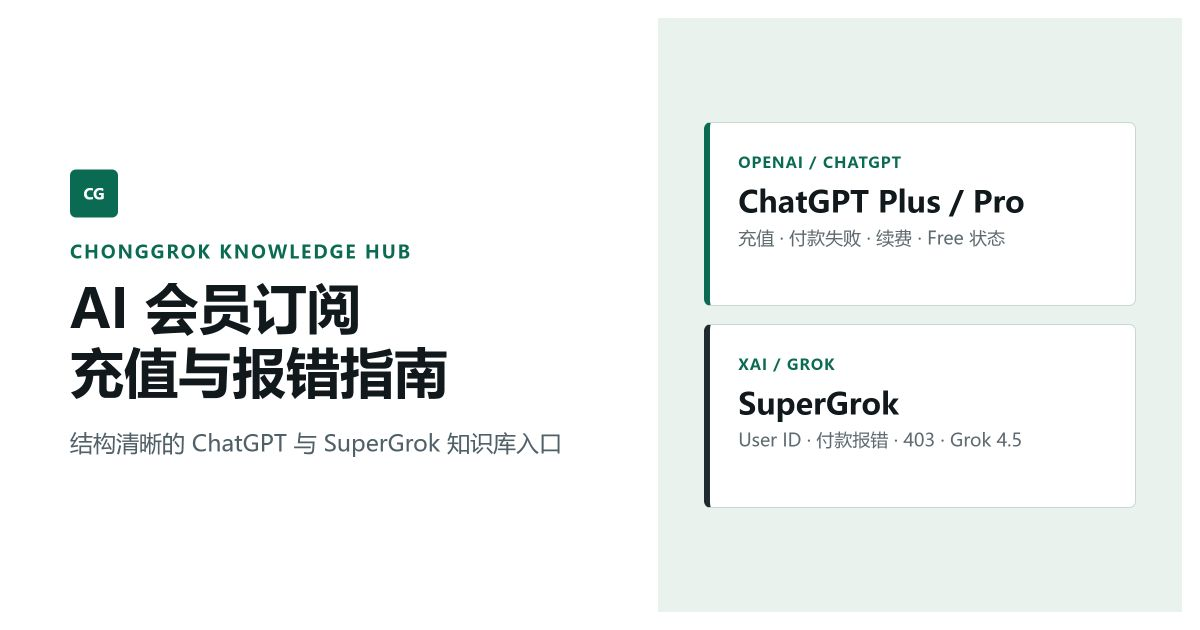
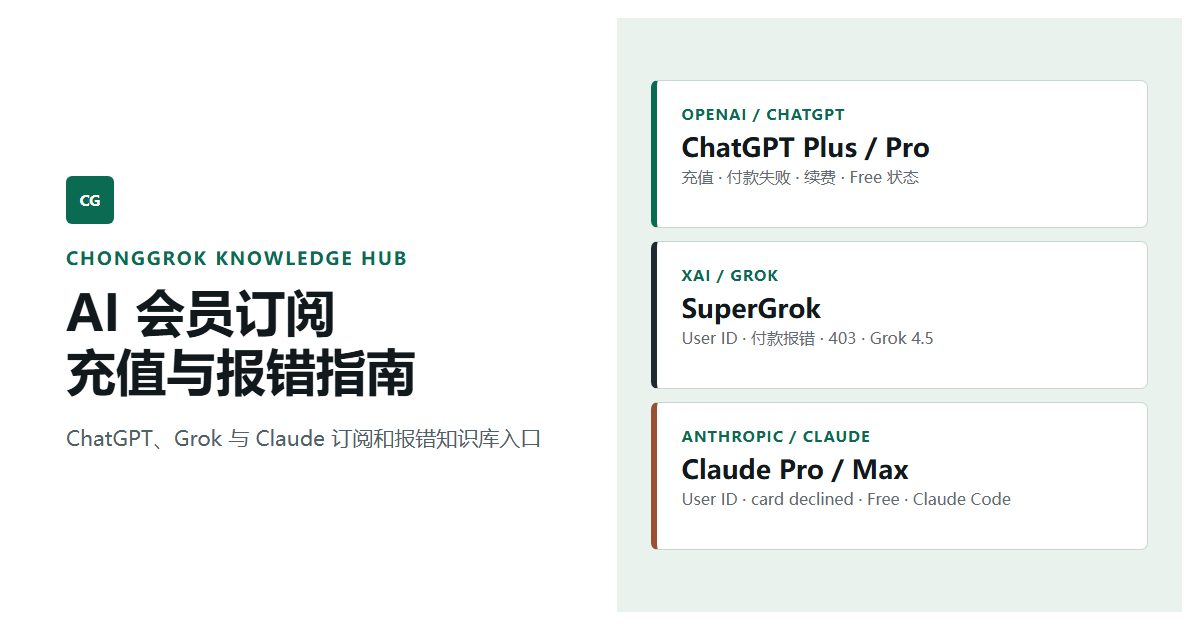
Add Claude knowledge base to portal

diff --git a/social-preview-source.html b/social-preview-source.html
@@ -7,19 +7,20 @@
   <style>
     * { box-sizing: border-box; }
     body { margin: 0; width: 1200px; height: 630px; overflow: hidden; color: #11191d; background: #f4f7f5; font-family: "Microsoft YaHei", "Segoe UI", Arial, sans-serif; }
-    .canvas { width: 1200px; height: 630px; display: grid; grid-template-columns: 1.1fr .9fr; border: 18px solid #fff; }
-    .copy { padding: 62px 52px; display: flex; flex-direction: column; justify-content: center; background: #fff; }
+    .canvas { width: 1200px; height: 630px; display: grid; grid-template-columns: 1.03fr .97fr; border: 18px solid #fff; }
+    .copy { padding: 56px 48px; display: flex; flex-direction: column; justify-content: center; background: #fff; }
     .mark { display: inline-grid; width: 48px; height: 48px; place-items: center; border-radius: 6px; color: #fff; background: #0b6b52; font-size: 15px; font-weight: 800; }
     .eyebrow { margin: 22px 0 12px; color: #0b6b52; font-size: 18px; font-weight: 800; letter-spacing: 2px; }
-    h1 { margin: 0; max-width: 610px; font-size: 54px; line-height: 1.18; letter-spacing: 0; }
-    p { margin: 22px 0 0; max-width: 600px; color: #506067; font-size: 23px; line-height: 1.55; }
-    .products { padding: 46px; display: grid; align-content: center; gap: 18px; background: #eaf2ee; }
-    .product { min-height: 184px; padding: 28px; border: 1px solid #c8d8d1; border-radius: 7px; background: #fff; }
+    h1 { margin: 0; max-width: 610px; font-size: 50px; line-height: 1.18; letter-spacing: 0; }
+    p { margin: 22px 0 0; max-width: 600px; color: #506067; font-size: 21px; line-height: 1.55; }
+    .products { padding: 34px; display: grid; align-content: center; gap: 13px; background: #eaf2ee; }
+    .product { min-height: 148px; padding: 22px 24px; border: 1px solid #c8d8d1; border-radius: 7px; background: #fff; }
     .product small { color: #0b6b52; font-size: 15px; font-weight: 800; letter-spacing: 1px; }
-    .product h2 { margin: 10px 0 6px; font-size: 30px; line-height: 1.25; }
-    .product span { color: #5f6b70; font-size: 18px; }
+    .product h2 { margin: 7px 0 4px; font-size: 26px; line-height: 1.2; }
+    .product span { color: #5f6b70; font-size: 16px; }
     .product.grok { border-left: 6px solid #202a31; }
     .product.chatgpt { border-left: 6px solid #0b6b52; }
+    .product.claude { border-left: 6px solid #9a4f32; }
   </style>
 </head>
 <body>
@@ -28,7 +29,7 @@
       <div class="mark">CG</div>
       <div class="eyebrow">CHONGGROK KNOWLEDGE HUB</div>
       <h1>AI 会员订阅<br>充值与报错指南</h1>
-      <p>结构清晰的 ChatGPT 与 SuperGrok 知识库入口</p>
+      <p>ChatGPT、Grok 与 Claude 订阅和报错知识库入口</p>
     </section>
     <section class="products">
       <div class="product chatgpt">
@@ -40,6 +41,11 @@
         <small>XAI / GROK</small>
         <h2>SuperGrok</h2>
         <span>User ID · 付款报错 · 403 · Grok 4.5</span>
+      </div>
+      <div class="product claude">
+        <small>ANTHROPIC / CLAUDE</small>
+        <h2>Claude Pro / Max</h2>
+        <span>User ID · card declined · Free · Claude Code</span>
       </div>
     </section>
   </main>

diff --git a/assets/css/style.css b/assets/css/style.css
@@ -7,6 +7,7 @@
   --brand: #0b6b52;
   --brand-dark: #084e3d;
   --grok: #1f2933;
+  --claude: #9a4f32;
   --accent: #a45b10;
   --danger: #a83328;
   --max-width: 1120px;
@@ -111,7 +112,7 @@ li + li { margin-top: 7px; }
 .button-link.primary { color: #fff; border-color: var(--brand); background: var(--brand); }
 .button-link.primary:hover { color: #fff; background: var(--brand-dark); }
 
-.product-grid { display: grid; grid-template-columns: repeat(2, minmax(0, 1fr)); gap: 20px; margin: 26px 0; }
+.product-grid { display: grid; grid-template-columns: repeat(3, minmax(0, 1fr)); gap: 20px; margin: 26px 0; }
 .product-card { overflow: hidden; border: 1px solid var(--line); border-radius: 7px; background: #fff; }
 .product-media { aspect-ratio: 16 / 8.5; overflow: hidden; border-bottom: 1px solid var(--line); background: var(--soft); }
 .product-media img { width: 100%; height: 100%; object-fit: cover; }
@@ -122,9 +123,10 @@ li + li { margin-top: 7px; }
 .tag-list span { padding: 4px 8px; border: 1px solid var(--line); border-radius: 4px; color: #405047; background: var(--soft); font-size: .82rem; }
 .card-actions { display: flex; flex-wrap: wrap; gap: 10px; }
 
-.intent-grid { display: grid; grid-template-columns: repeat(2, minmax(0, 1fr)); gap: 14px; margin: 22px 0; }
+.intent-grid { display: grid; grid-template-columns: repeat(3, minmax(0, 1fr)); gap: 14px; margin: 22px 0; }
 .intent-group { padding: 18px; border-left: 4px solid var(--brand); background: var(--soft); }
 .intent-group.grok { border-left-color: var(--grok); }
+.intent-group.claude { border-left-color: var(--claude); }
 .intent-group h3 { margin-top: 0; }
 .intent-group ul { margin-bottom: 0; padding-left: 21px; }
 
@@ -170,6 +172,7 @@ code { padding: 2px 5px; border-radius: 4px; background: #eef2f1; font-size: .92
   .nav-shell { align-items: flex-start; flex-direction: column; padding: 12px 0; gap: 10px; }
   .site-header { position: static; }
   .site-nav { width: 100%; flex-wrap: wrap; gap: 8px 14px; padding-bottom: 2px; }
+  .product-grid, .intent-grid { grid-template-columns: repeat(2, minmax(0, 1fr)); }
 }
 @media (max-width: 720px) {
   body { font-size: 16px; }

diff --git a/_includes/footer.html b/_includes/footer.html
@@ -2,14 +2,15 @@
   <div class="footer-shell">
     <div>
       <p class="footer-title">ChongGrok AI 会员指南</p>
-      <p>ChatGPT 与 SuperGrok 会员订阅、付款报错和账号状态知识库。</p>
+      <p>ChatGPT、Grok 与 Claude 会员订阅、付款报错和账号状态知识库。</p>
     </div>
     <div class="footer-links">
       <a href="{{ site.chatgpt_guide_url }}">ChatGPT 指南</a>
       <a href="{{ site.grok_guide_url }}">Grok 指南</a>
+      <a href="{{ site.claude_guide_url }}">Claude 指南</a>
       <a href="{{ '/llms.txt' | relative_url }}">llms.txt</a>
       <a href="https://chonggrok.com/blog">主站博客</a>
     </div>
-    <p class="footer-note">ChongGrok 与 OpenAI、xAI、X 不存在隶属、授权或官方合作关系。套餐、权益、价格与模型可用性以对应产品官方页面实时展示为准。</p>
+    <p class="footer-note">ChongGrok 与 OpenAI、xAI、X、Anthropic 不存在隶属、授权或官方合作关系。套餐、权益、价格与模型可用性以对应产品官方页面实时展示为准。</p>
   </div>
 </footer>

diff --git a/_includes/header.html b/_includes/header.html
@@ -8,6 +8,7 @@
       <a href="{{ '/' | relative_url }}">首页</a>
       <a href="{{ site.chatgpt_guide_url }}">ChatGPT</a>
       <a href="{{ site.grok_guide_url }}">Grok</a>
+      <a href="{{ site.claude_guide_url }}">Claude</a>
       <a href="{{ '/search/' | relative_url }}">搜索</a>
       <a href="{{ '/about/' | relative_url }}">关于</a>
       <a href="{{ '/en/' | relative_url }}" lang="en">English</a>

diff --git a/index.md b/index.md
@@ -1,14 +1,14 @@
 ---
-title: "ChongGrok AI 会员指南：ChatGPT 与 SuperGrok 充值及报错知识库"
-description: "ChongGrok AI 会员指南统一入口，覆盖 ChatGPT Plus / Pro 和 SuperGrok 充值、付款失败、续费、账号状态、User ID 与 session 风险说明。"
+title: "ChongGrok AI 会员指南：ChatGPT、Grok 与 Claude 订阅及报错知识库"
+description: "ChongGrok AI 会员指南统一入口，覆盖 ChatGPT Plus / Pro、SuperGrok 与 Claude Pro / Max 的订阅、付款失败、续费、账号状态和凭证安全说明。"
 permalink: /
 schema_type: CollectionPage
-last_modified_at: 2026-07-13
+last_modified_at: 2026-07-14
 faq:
   - question: "这个网站提供哪些会员订阅指南？"
-    answer: "首版收录 ChatGPT Plus / Pro 与 Grok / SuperGrok 两套独立知识库，覆盖充值流程、付款报错、订阅状态和账号凭证说明。"
+    answer: "当前收录 ChatGPT Plus / Pro、Grok / SuperGrok 与 Claude Pro / Max 三套独立知识库，覆盖订阅流程、付款报错、账号状态和凭证安全说明。"
   - question: "ChongGrok 充值需要账号密码吗？"
-    answer: "不需要账号密码。不同产品需要的账号标识不同：ChatGPT Plus 自动流程使用本次升级所需 session，SuperGrok 使用 Grok User ID；这些信息仍应谨慎保管并仅在确认的核销流程中提交。"
+    answer: "不需要账号密码。不同产品需要的账号标识不同：ChatGPT Plus 自动流程使用本次升级所需 session，SuperGrok 使用 Grok User ID，Claude 客服协助流程使用 Claude User ID；这些信息仍应谨慎保管并仅在确认的流程中提交。"
   - question: "这个网站提供 API 额度或成品账号吗？"
     answer: "不提供。ChongGrok 这里只处理 ChatGPT、Grok、Claude、Gemini 的会员订阅，不提供 API 额度、成品号、接码或批量注册服务。"
 ---
@@ -16,7 +16,7 @@ faq:
 <section class="intro-band">
   <p class="eyebrow">ChongGrok Knowledge Hub</p>
   <h1>ChongGrok AI 会员指南</h1>
-  <p class="lead">面向国内用户的 ChatGPT 与 SuperGrok 会员订阅知识库。先判断套餐和购买入口，再处理付款被拒、续费失败、权益未同步和账号凭证问题。</p>
+  <p class="lead">面向国内用户的 ChatGPT、Grok 与 Claude 会员订阅知识库。先判断套餐和购买入口，再处理付款被拒、续费失败、权益未同步和账号凭证问题。</p>
   <div class="intro-actions">
     <a class="button-link primary" href="{{ '/search/' | relative_url }}">搜索问题</a>
     <a class="button-link" href="https://chonggrok.com/blog">查看主站博客</a>
@@ -67,29 +67,38 @@ faq:
       <li><a href="https://he20000405-pixel.github.io/supergrok-china-guide/guides/grok-build-login-403/">Grok Build 登录与 403</a></li>
     </ul>
   </section>
+  <section class="intent-group claude">
+    <h3>Claude 常见问题</h3>
+    <ul>
+      <li><a href="https://he20000405-pixel.github.io/claude-pro-max-china-guide/guides/claude-pro-vs-max/">Pro、Max 5x 与 Max 20x 怎么选</a></li>
+      <li><a href="https://he20000405-pixel.github.io/claude-pro-max-china-guide/guides/claude-payment-errors/">银行卡被拒、账单地址与 3DS</a></li>
+      <li><a href="https://he20000405-pixel.github.io/claude-pro-max-china-guide/guides/claude-paid-but-still-free/">已付款但仍显示 Free</a></li>
+      <li><a href="https://he20000405-pixel.github.io/claude-pro-max-china-guide/guides/claude-code-pro-max/">Claude Code 登录与额度边界</a></li>
+    </ul>
+  </section>
 </div>
 
 ## 使用边界
 
 <div class="notice warning">
-  <strong>不要密码不等于零风险。</strong>ChatGPT session 和 Grok User ID 的敏感程度不同，但都只应在确认的充值流程中提交。任何线上订阅服务都无法诚实承诺绝对安全、固定到账或账号结果。
+  <strong>不要密码不等于零风险。</strong>ChatGPT session、Grok User ID 与 Claude User ID 的敏感程度不同，但都只应在确认的订阅协助流程中提交。任何线上订阅服务都无法诚实承诺绝对安全、固定到账或账号结果。
 </div>
 
 - 账号始终归用户自己，完成后由用户登录官方页面验收。
 - 只提供 ChatGPT、Grok、Claude、Gemini 的会员订阅服务。
 - 不提供 API 额度、成品账号、接码或批量注册。
-- ChongGrok 与 OpenAI、xAI、X 不存在隶属、授权或官方合作关系。
+- ChongGrok 与 OpenAI、xAI、X、Anthropic 不存在隶属、授权或官方合作关系。
 
 ## 常见问题
 
 <div class="faq-list">
   <details>
     <summary>这个网站提供哪些会员订阅指南？</summary>
-    <p>首版收录 ChatGPT Plus / Pro 与 Grok / SuperGrok 两套独立知识库，覆盖充值流程、付款报错、订阅状态和账号凭证说明。</p>
+    <p>当前收录 ChatGPT Plus / Pro、Grok / SuperGrok 与 Claude Pro / Max 三套独立知识库，覆盖订阅流程、付款报错、账号状态和凭证安全说明。</p>
   </details>
   <details>
     <summary>ChongGrok 充值需要账号密码吗？</summary>
-    <p>不需要账号密码。ChatGPT Plus 自动流程使用本次升级所需 session，SuperGrok 使用 Grok User ID；两者都应谨慎保管并仅在确认的核销流程中提交。</p>
+    <p>不需要账号密码。ChatGPT Plus 自动流程使用本次升级所需 session，SuperGrok 使用 Grok User ID，Claude 客服协助流程使用 Claude User ID；这些信息都应谨慎保管并仅在确认的流程中提交。</p>
   </details>
   <details>
     <summary>这个网站提供 API 额度或成品账号吗？</summary>
@@ -97,4 +106,4 @@ faq:
   </details>
 </div>
 
-<p class="meta">最后更新：2026-07-13</p>
+<p class="meta">最后更新：2026-07-14</p>

diff --git a/search.md b/search.md
@@ -1,19 +1,19 @@
 ---
-title: "搜索 ChatGPT 与 Grok 充值及报错指南"
-description: "搜索 ChongGrok ChatGPT 与 Grok 知识库中的充值流程、付款失败、Free 状态、续费、User ID、session 和 Grok Build 403 专题。"
+title: "搜索 ChatGPT、Grok 与 Claude 订阅及报错指南"
+description: "搜索 ChongGrok ChatGPT、Grok 与 Claude 知识库中的订阅流程、付款失败、Free 状态、续费、User ID、session、Grok Build 403 和 Claude Code 专题。"
 permalink: /search/
-last_modified_at: 2026-07-13
+last_modified_at: 2026-07-14
 ---
 
 <p class="eyebrow">Search</p>
 # 搜索知识库
 
-<p class="lead">输入产品、报错提示或订阅状态关键词，结果会直接打开对应的 ChatGPT 或 Grok 专题。</p>
+<p class="lead">输入产品、报错提示或订阅状态关键词，结果会直接打开对应的 ChatGPT、Grok 或 Claude 专题。</p>
 
 <section class="search-panel" aria-label="知识库搜索">
   <form class="search-form" action="{{ '/search/' | relative_url }}" method="get" data-search-form>
     <label class="sr-only" for="guide-search">搜索关键词</label>
-    <input id="guide-search" name="q" type="search" autocomplete="off" placeholder="例如：付款失败、Free、续费、User ID、session" data-search-input>
+    <input id="guide-search" name="q" type="search" autocomplete="off" placeholder="例如：付款失败、Free、续费、User ID、session、Claude Code" data-search-input>
     <button type="submit">搜索</button>
   </form>
   <p class="search-status" aria-live="polite" data-search-status>正在载入搜索索引。</p>
@@ -22,7 +22,7 @@ last_modified_at: 2026-07-13
 <div class="search-results" data-search-results></div>
 
 <noscript>
-  <p class="notice">当前浏览器未启用 JavaScript。请直接进入 <a href="{{ site.chatgpt_guide_url }}">ChatGPT 指南</a>或 <a href="{{ site.grok_guide_url }}">Grok 指南</a>。</p>
+  <p class="notice">当前浏览器未启用 JavaScript。请直接进入 <a href="{{ site.chatgpt_guide_url }}">ChatGPT 指南</a>、<a href="{{ site.grok_guide_url }}">Grok 指南</a>或 <a href="{{ site.claude_guide_url }}">Claude 指南</a>。</p>
 </noscript>
 
 <script src="{{ '/assets/js/search.js' | relative_url }}" defer></script>

diff --git a/PUBLISHING.md b/PUBLISHING.md
@@ -20,7 +20,7 @@
 - `https://he20000405-pixel.github.io/sitemap.xml`
 - `https://he20000405-pixel.github.io/llms.txt`
 
-搜索页分别测试：`Free`、`续费`、`User ID`、`session`、`403`。
+搜索页分别测试：`Claude`、`Pro`、`Max`、`Free`、`续费`、`User ID`、`session`、`403`、`Claude Code`。
 
 ## 三、Google Search Console
 
@@ -31,17 +31,18 @@
    - `sitemap.xml`
    - `chatgpt-plus-pro-china-guide/sitemap.xml`
    - `supergrok-china-guide/sitemap.xml`
+   - `claude-pro-max-china-guide/sitemap.xml`
 5. 只请求根首页、`/search/` 和 `/en/` 编入索引一次，不重复提交既有专题。
 
 ## 四、Bing Webmaster Tools
 
 1. 优先从 Google Search Console 导入根站资源。
-2. 确认 Bing 网站地图页面发现三个 sitemap。
+2. 确认 Bing 网站地图页面发现根站和三个产品知识库 sitemap。
 3. 只对根首页和必要入口请求一次索引。
 
 ## 五、日常维护
 
-- 新增 ChatGPT 或 Grok 专题后，同步更新根站 `_data/guides.yml` 和 `llms.txt`。
-- Claude 或 Gemini 知识库完成后，在 `_data/products.yml` 增加产品项，再补对应搜索数据。
-- 不移动两个既有仓库的文章，不修改已经收录的 permalink。
+- 新增 ChatGPT、Grok 或 Claude 专题后，同步更新根站 `_data/guides.yml` 和 `llms.txt`。
+- Gemini 知识库完成后，在 `_data/products.yml` 增加产品项，再补对应搜索数据。
+- 不移动三个产品仓库的文章，不修改已经收录的 permalink。
 - 套餐、价格、功能或版本信息更新前先核对产品官方页面。

diff --git a/en.md b/en.md
@@ -1,15 +1,15 @@
 ---
 title: "ChongGrok AI Membership Guides"
-description: "Independent ChatGPT and SuperGrok membership guides covering subscription recharge, payment errors, account checks and credential safety boundaries."
+description: "Independent ChatGPT, SuperGrok and Claude membership guides covering subscription assistance, payment errors, account checks and credential safety boundaries."
 permalink: /en/
 lang: en
-last_modified_at: 2026-07-13
+last_modified_at: 2026-07-14
 ---
 
 <p class="eyebrow">English Guide Directory</p>
 # ChongGrok AI Membership Guides
 
-This is the unified directory for ChongGrok's independent ChatGPT and SuperGrok membership knowledge bases. It covers subscription recharge, payment errors, entitlement checks and credential safety boundaries for users who do not have a supported international payment card.
+This is the unified directory for ChongGrok's independent ChatGPT, SuperGrok and Claude membership knowledge bases. It covers subscription assistance, payment errors, entitlement checks and credential safety boundaries for users who do not have a supported international payment card.
 
 ## Available guides
 
@@ -17,12 +17,14 @@ This is the unified directory for ChongGrok's independent ChatGPT and SuperGrok 
 | --- | --- | --- |
 | ChatGPT | Plus automated recharge, 5x/20x Pro, card declines, renewal failures and paid-but-Free status | [Open ChatGPT guide](https://he20000405-pixel.github.io/chatgpt-plus-pro-china-guide/en/) |
 | Grok | SuperGrok recharge, Grok User ID, payment errors, Grok Build 403 and Grok 4.5 | [Open SuperGrok guide](https://he20000405-pixel.github.io/supergrok-china-guide/en/) |
+| Claude | Pro, Max 5x/20x, Claude User ID safety, payment errors, paid-but-Free checks and Claude Code | [Open Claude guide](https://he20000405-pixel.github.io/claude-pro-max-china-guide/en/) |
 
 ## Service boundaries
 
 - Passwords, email verification codes and recovery codes are not requested.
 - A ChatGPT session credential is sensitive even when no password is requested. It should be refreshed by signing out and back in after completion.
 - A Grok User ID is an account identifier, not a login password, but it should still be handled carefully.
+- A Claude User ID is used by ChongGrok to identify the target account during assisted fulfillment. It is not an Anthropic subscription requirement and should not be shared publicly.
 - No API credits, ready-made accounts, SMS verification or bulk registration are offered.
 - ChongGrok is not affiliated with OpenAI, xAI, X, Anthropic or Google.
 

diff --git a/README.md b/README.md
@@ -1,10 +1,11 @@
 # ChongGrok AI Membership Guides
 
-Unified GitHub Pages directory for the ChongGrok ChatGPT and SuperGrok membership knowledge bases.
+Unified GitHub Pages directory for the ChongGrok ChatGPT, SuperGrok and Claude membership knowledge bases.
 
 - Website: <https://he20000405-pixel.github.io/>
 - ChatGPT guide: <https://he20000405-pixel.github.io/chatgpt-plus-pro-china-guide/>
 - Grok guide: <https://he20000405-pixel.github.io/supergrok-china-guide/>
+- Claude guide: <https://he20000405-pixel.github.io/claude-pro-max-china-guide/>
 - Main service: <https://chonggrok.com/>
 
 ## Scope